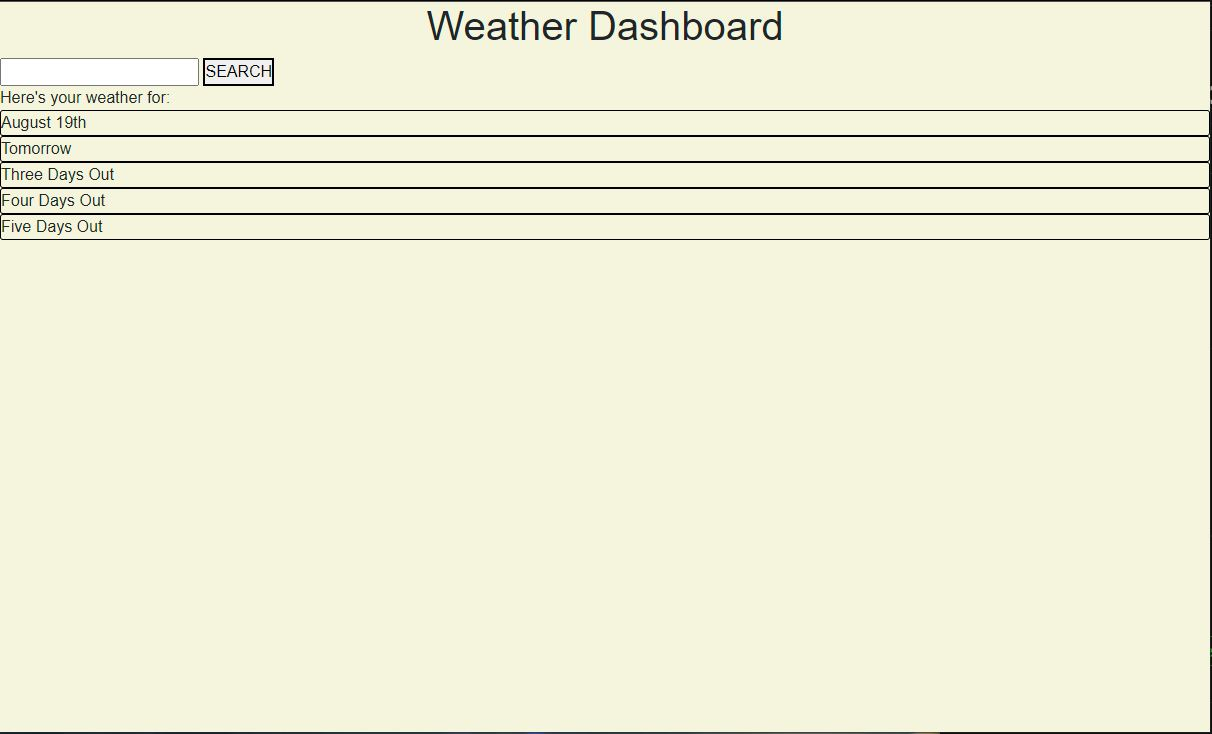
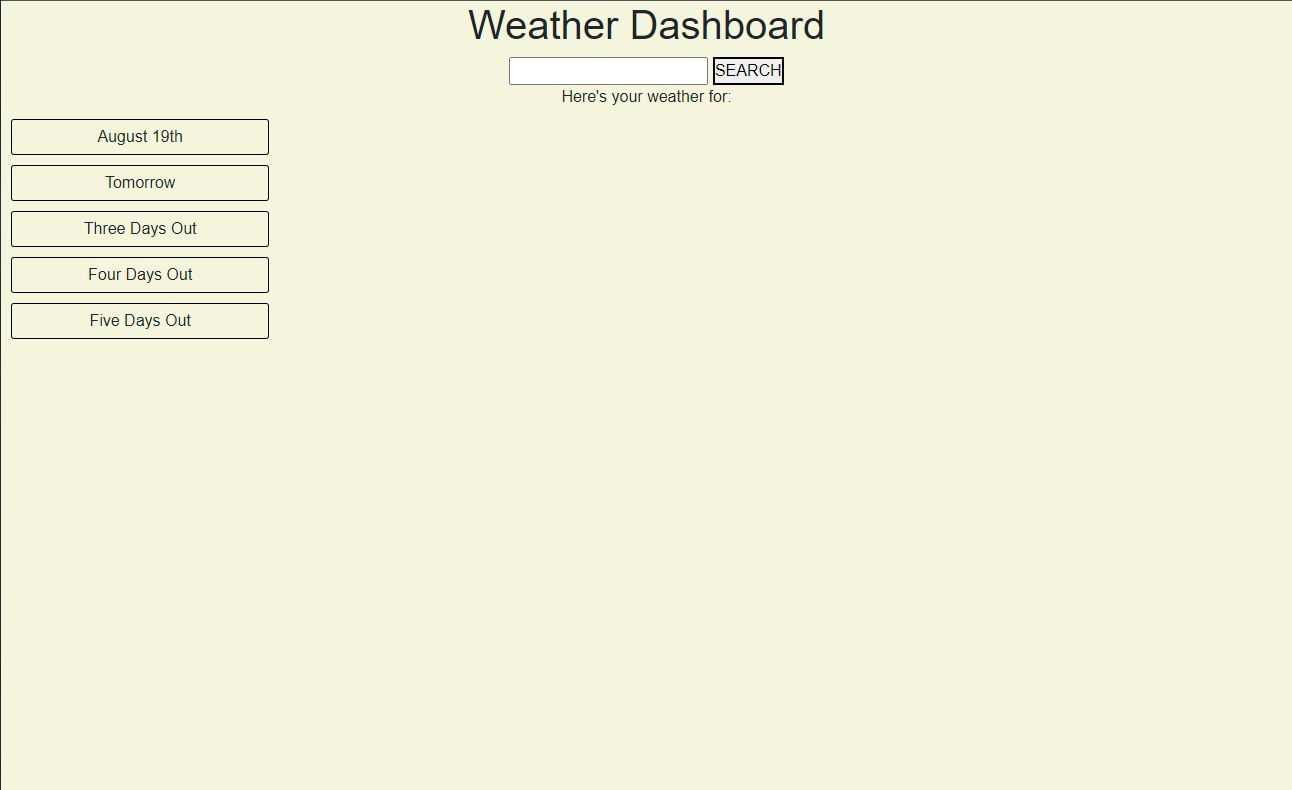
cleaning up what i have for now

diff --git a/index.html b/index.html
@@ -16,16 +16,16 @@
     <header class="center">
         <h1>Weather Dashboard</h1>
     </header>
-    <section>
+    <section class="center">
         <input id="textSearch" type="text">
         <button id="searchBttn">SEARCH</button>
     </section>
-    <main>
+    <main class="center">
         <!-- city name that was searched -->
-        <div>
+        <div class="center">
             <span>Here's your weather for:</span>
             <span id="city_searched"></span>
-        </div>
+        </div class="center">
         <!-- list all 5 days of the weather forecast -->
         <div>
             <!-- day 1 -->
